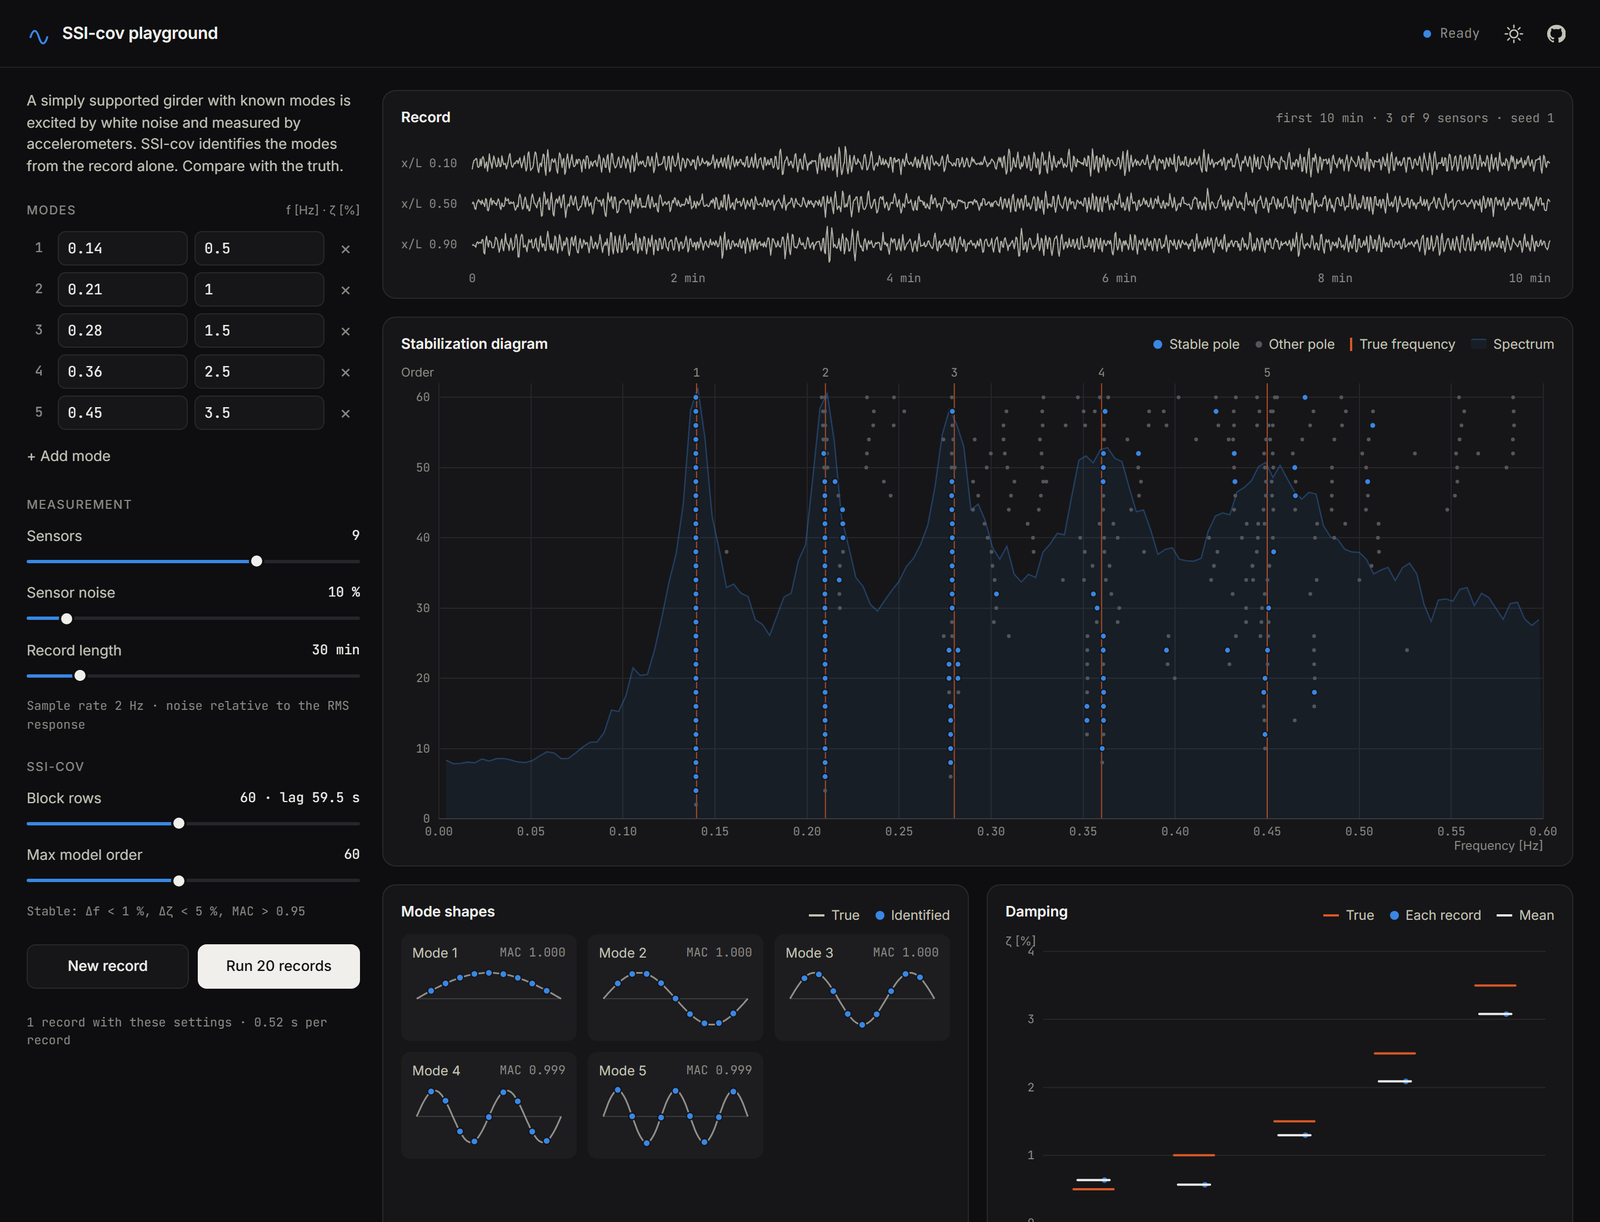
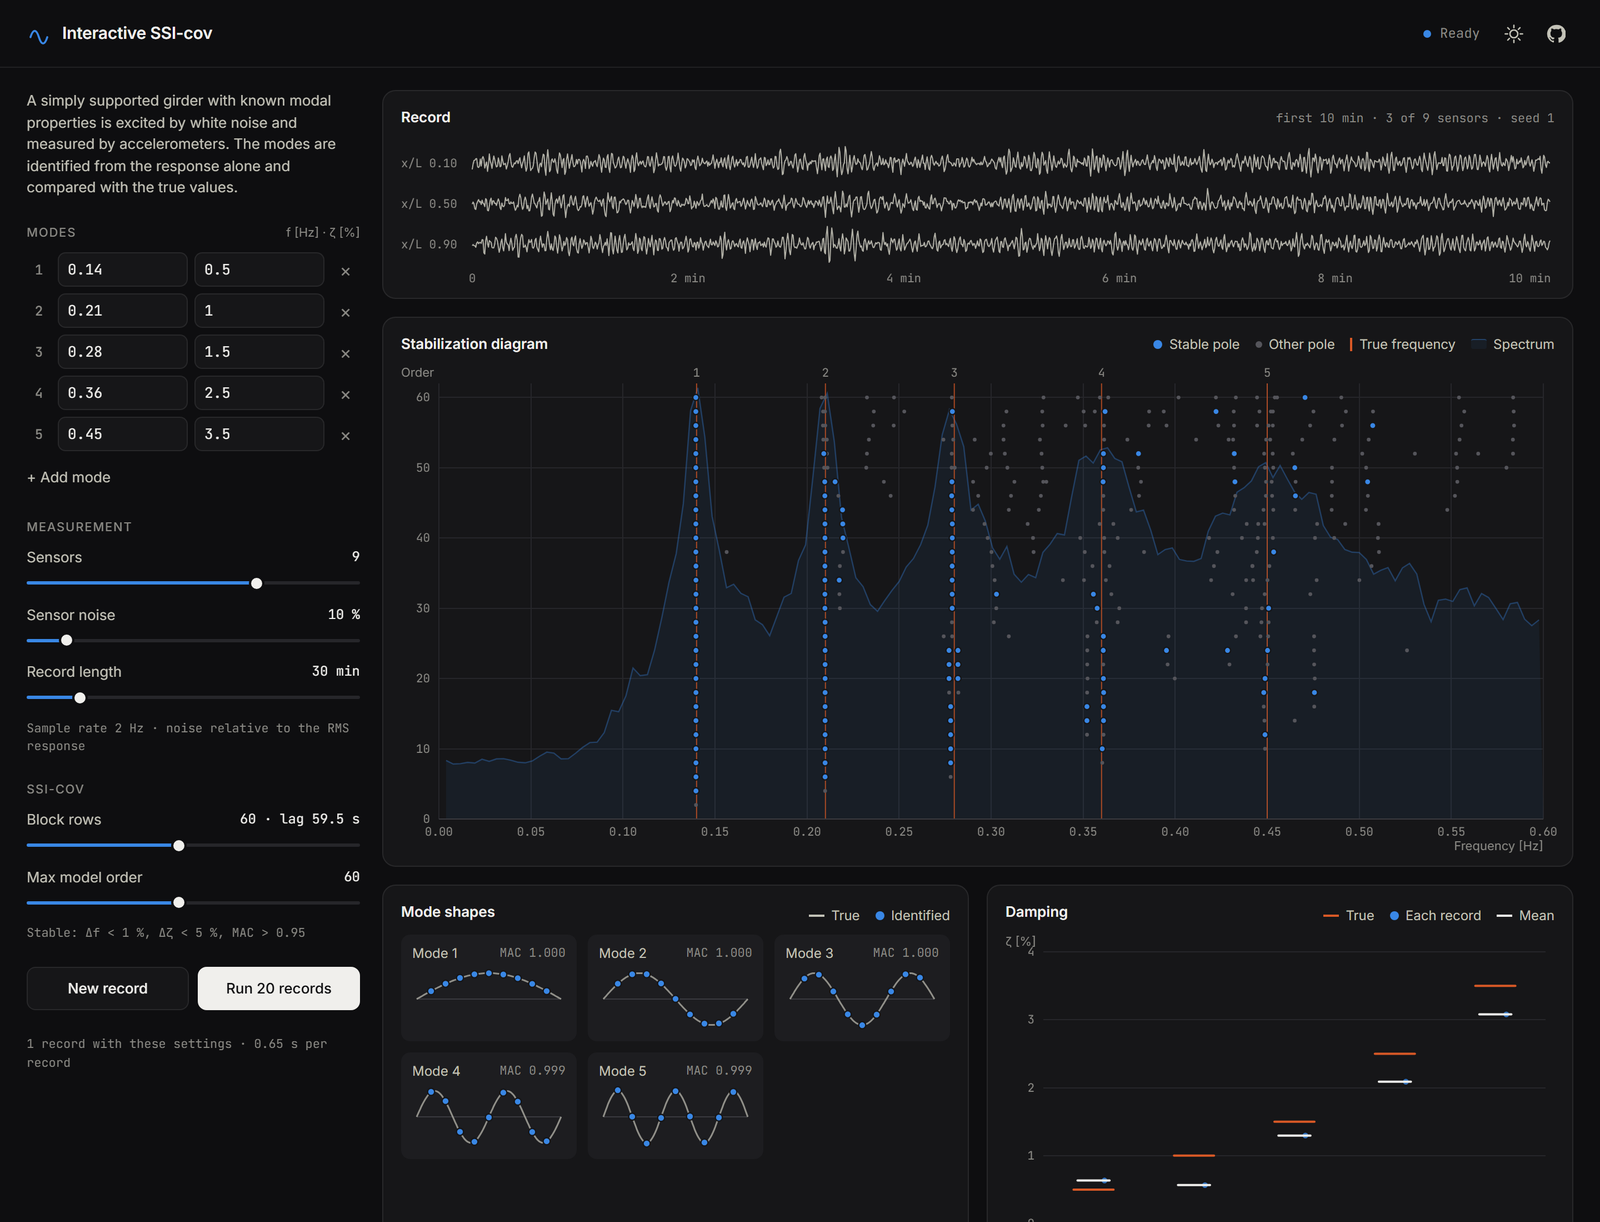
Rename SSI-cov Playground to Interactive SSI-cov
Card and project page text rewritten in a more formal tone; new hero screenshot.

diff --git a/projects/ssi-playground/index.html b/projects/ssi-playground/index.html
@@ -3,8 +3,8 @@
 <head>
   <meta charset="UTF-8">
   <meta name="viewport" content="width=device-width, initial-scale=1.0">
-  <title>SSI-cov Playground – Henning Gregusson</title>
-  <meta name="description" content="Stochastic subspace identification running in the browser, on a simulated girder with known modes.">
+  <title>Interactive SSI-cov – Henning Gregusson</title>
+  <meta name="description" content="Covariance-driven stochastic subspace identification of a simulated girder with known modal properties, computed in the browser.">
   <link rel="stylesheet" href="../../assets/css/main.css">
 </head>
 <body>
@@ -23,26 +23,28 @@
     <div class="container">
       <section class="project-hero">
         <div>
-          <h1>SSI-cov Playground</h1>
-          <p class="lead">Stochastic subspace identification running in the browser, on a simulated girder with
-            known modes.</p>
-          <p>An interactive version of the identification method from my Hardanger Bridge analysis. You choose the
-            modes (frequency and damping), the number of sensors, the noise, the record length and the SSI settings.
-            The page simulates the accelerations, identifies the modes with covariance-driven SSI and automatic mode
-            picking, and compares the result with the true values. The computation is Python and NumPy, run in the
-            browser with Pyodide. The plots are written directly in SVG, without a chart library.</p>
+          <h1>Interactive SSI-cov</h1>
+          <p class="lead">Covariance-driven stochastic subspace identification of a simulated girder with known
+            modal properties, computed in the browser.</p>
+          <p>A web application for studying the accuracy of covariance-driven stochastic subspace identification
+            (SSI-cov). The natural frequencies and damping ratios of a simply supported girder, the number of
+            sensors, the measurement noise, the record length and the identification settings are set by the user.
+            The application simulates the acceleration response to white-noise excitation, identifies the modes
+            with SSI-cov and automatic mode selection, and compares the results with the true values. The
+            computations are implemented in Python and NumPy and run client-side through Pyodide; the figures are
+            rendered directly as SVG.</p>
 
           <ul class="highlights">
-            <li>Stabilization diagram, mode shapes, and a table of identified against true frequency, damping and
-              MAC. One record takes about half a second.</li>
-            <li>Running 20 records with the same settings shows the bias of the damping estimate. For the mode with
-              3.5 % damping, the mean error over the same 21 records was −0.39 %-points with 30 block rows and
-              −0.83 with 120.</li>
-            <li>The bias shrinks with longer records (from −1.2 to −0.2 %-points between 30 and 180 minutes, at 120
-              block rows), so it is a finite-record effect. It is the same bias I had to correct in the Hardanger
-              damping estimates.</li>
-            <li>Each mode is simulated exactly in discrete time, so the true frequency and damping are known exactly.
-              Tests check the identification against them.</li>
+            <li>Stabilization diagram, mode shapes, and a comparison of identified and true natural frequencies,
+              damping ratios and MAC values. One identification takes about 0.5 s.</li>
+            <li>Repeated identification over independent records quantifies the bias of the damping estimate. For
+              the mode with 3.5 % damping, the mean error over 21 records was −0.39 percentage points with 30 block
+              rows and −0.83 with 120 block rows.</li>
+            <li>The bias decreases with record length, from −1.2 to −0.2 percentage points between 30 and 180
+              minutes at 120 block rows, which identifies it as a finite-record effect. The same bias was corrected
+              in the damping estimates of the <a href="../hardanger-oma/">Hardanger Bridge analysis</a>.</li>
+            <li>Each mode is simulated exactly in discrete time, so its true frequency and damping are known. Unit
+              tests verify the identification against these values.</li>
           </ul>
 
           <p class="section-label">Tools</p>
@@ -57,7 +59,7 @@
           </div>
 
           <div class="button-row">
-            <a class="button" href="https://hennindg.github.io/ssi-playground/">Open the playground</a>
+            <a class="button" href="https://hennindg.github.io/ssi-playground/">Open the application</a>
             <a class="button secondary" href="https://github.com/hennindg/ssi-playground">Code on GitHub</a>
           </div>
         </div>
@@ -65,7 +67,7 @@
         <div>
           <a href="https://hennindg.github.io/ssi-playground/">
             <img class="screenshot" src="../../assets/images/ssi-playground/hero.png"
-                 alt="The playground: mode and SSI settings on the left, the simulated record and the stabilization diagram on the right">
+                 alt="The application: modal properties and identification settings on the left, the simulated record and the stabilization diagram on the right">
           </a>
         </div>
       </section>
@@ -74,25 +76,26 @@
         <h2>Figures</h2>
         <div class="figure-grid">
           <figure>
-            <img class="screenshot" src="../../assets/images/ssi-playground/stabilization.png" alt="Stabilization diagram with the true frequencies">
-            <figcaption><strong>Stabilization diagram</strong>Poles at model orders 2–60. Blue poles are stable from
-              one order to the next, orange lines are the true frequencies, and the shaded curve is the first singular
-              value of the spectral matrix.</figcaption>
+            <img class="screenshot" src="../../assets/images/ssi-playground/stabilization.png" alt="Stabilization diagram with the true natural frequencies">
+            <figcaption><strong>Stabilization diagram</strong>Poles for model orders 2–60. Blue: poles that are stable
+              between consecutive model orders. Orange: true natural frequencies. Shaded: first singular value of the
+              spectral density matrix.</figcaption>
           </figure>
           <figure>
             <img class="screenshot" src="../../assets/images/ssi-playground/shapes.png" alt="Identified and true mode shapes">
-            <figcaption><strong>Mode shapes</strong>Identified mode shapes at the nine sensors against the true sine
-              shapes, with the MAC between them.</figcaption>
+            <figcaption><strong>Mode shapes</strong>Identified mode shapes at nine sensor positions compared with the
+              true sinusoidal shapes, with the corresponding MAC values.</figcaption>
           </figure>
           <figure>
-            <img class="screenshot" src="../../assets/images/ssi-playground/damping_rows30.png" alt="Identified damping of 21 records with 30 block rows">
-            <figcaption><strong>Damping, 30 block rows</strong>Identified damping of 21 simulated 30-minute records.
-              Orange: true value, white: mean, bias below. Mode 5 was found in 18 of the 21 records.</figcaption>
+            <img class="screenshot" src="../../assets/images/ssi-playground/damping_rows30.png" alt="Identified damping ratios of 21 records with 30 block rows">
+            <figcaption><strong>Damping, 30 block rows</strong>Identified damping ratios from 21 simulated 30-minute
+              records. Orange: true value. White: mean. The bias is given below each mode. Mode 5 was identified in
+              18 of the 21 records.</figcaption>
           </figure>
           <figure>
-            <img class="screenshot" src="../../assets/images/ssi-playground/damping_rows120.png" alt="Identified damping of the same 21 records with 120 block rows">
+            <img class="screenshot" src="../../assets/images/ssi-playground/damping_rows120.png" alt="Identified damping ratios of the same 21 records with 120 block rows">
             <figcaption><strong>Damping, 120 block rows</strong>The same 21 records identified with 120 block rows.
-              The damping of the more heavily damped modes is underestimated more.</figcaption>
+              The underestimation of damping increases for the more heavily damped modes.</figcaption>
           </figure>
         </div>
         <p style="font-size:0.8rem;color:var(--muted);margin-top:18px">Method: Peeters, B. &amp; De Roeck, G. (1999).

diff --git a/index.html b/index.html
@@ -59,12 +59,12 @@
         <article class="project-card" data-category="python dynamics">
           <a href="projects/ssi-playground/" class="card-link">
             <div class="card-image">
-              <img src="assets/images/ssi-playground/card.png" alt="Stabilization diagram from the SSI-cov playground">
+              <img src="assets/images/ssi-playground/card.png" alt="Stabilization diagram of a simulated girder identified with SSI-cov">
             </div>
             <div class="card-content">
-              <h2 class="card-title">SSI-cov Playground</h2>
-              <p class="card-description">Stochastic subspace identification in the browser, on a simulated girder
-                with known modes. Shows the stabilization diagram, the mode shapes and the bias of the damping estimate.</p>
+              <h2 class="card-title">Interactive SSI-cov</h2>
+              <p class="card-description">Covariance-driven stochastic subspace identification of a simulated girder
+                with known modal properties, computed in the browser. Quantifies the bias of the identified damping.</p>
               <div class="card-tools">
                 <span class="tool-tag">Python</span>
                 <span class="tool-tag">NumPy</span>

diff --git a/assets/css/main.css b/assets/css/main.css
@@ -123,7 +123,7 @@ a { color: var(--accent); }
 .project-hero img { width: 100%; background: white; padding: 8px; }
 .highlights { list-style: none; padding: 0; margin: 18px 0; }
 .highlights li { border-left: 3px solid var(--accent); padding: 2px 0 2px 12px; margin-bottom: 12px; font-size: 0.92rem; }
-/* Screenshots of dark pages (SSI playground): no white frame */
+/* Screenshots of dark pages (Interactive SSI-cov): no white frame */
 .project-hero img.screenshot, .figure-grid img.screenshot { background: #0e0e10; padding: 0; }
 .section-label { font-size: 0.75rem; letter-spacing: 0.1em; text-transform: uppercase; color: var(--muted); margin: 26px 0 8px; }
 .button-row { display: flex; flex-wrap: wrap; gap: 10px; margin-top: 20px; }
